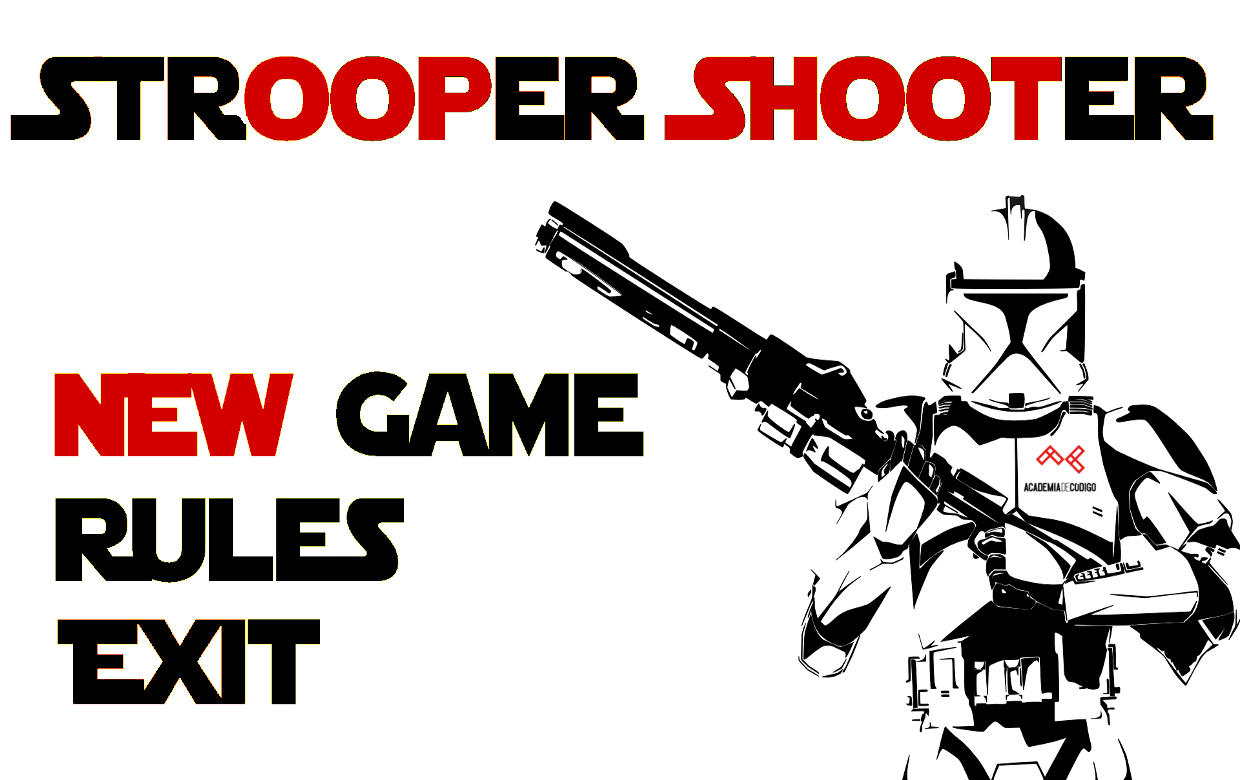
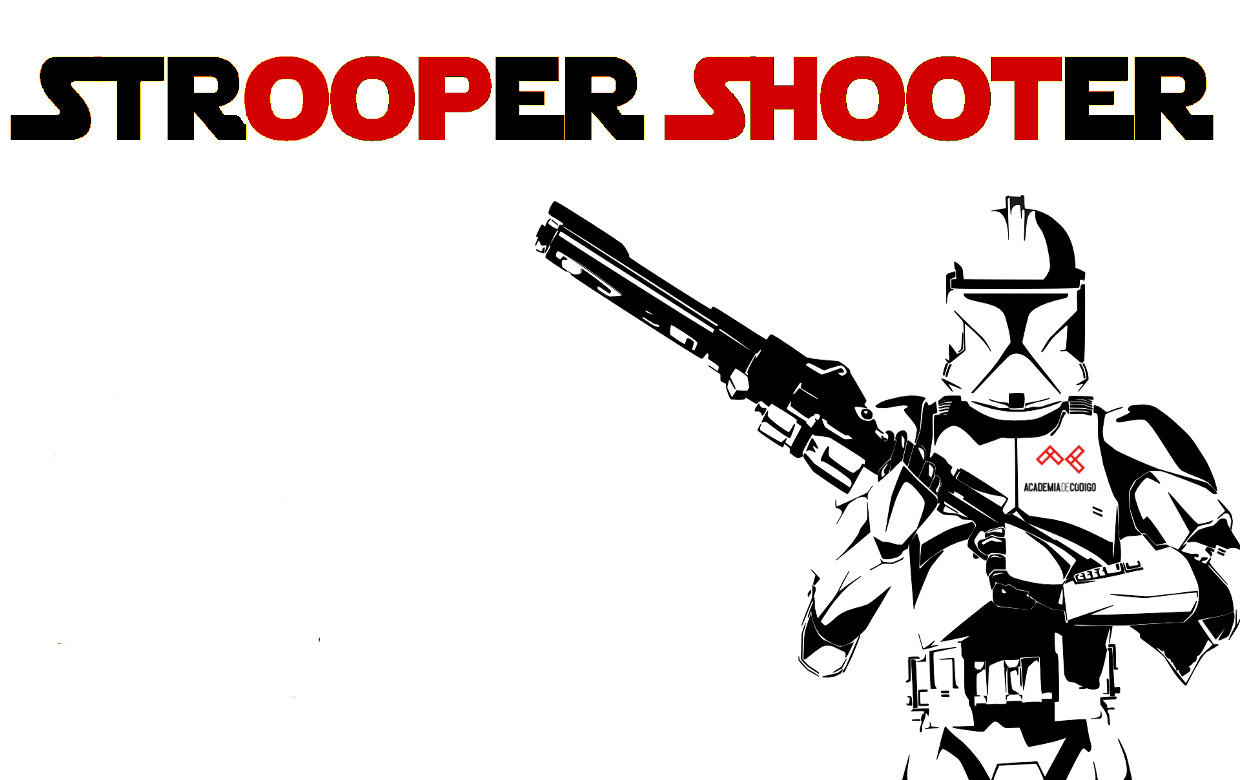
After one week, I have to say that this is probably the final version(or not)

Changed region(s): [[0.0306, 0.6154, 0.3371, 0.9231], [0.0306, 0.4615, 0.521, 0.5846]]

diff --git a/StrooperShooter/src/org/academiadecodigo/stormrooters/stroopershooter/Game.java b/StrooperShooter/src/org/academiadecodigo/stormrooters/stroopershooter/Game.java
@@ -28,6 +28,7 @@ public class Game {
     private Sound[] sound;
     private Picture gameOver;
     private Picture rules;
+    private Picture menu;
 
     public Game(int objectsNumber) {
         this.blasterRifle = new Weapon();
@@ -35,8 +36,9 @@ public class Game {
         this.player = new Player(blasterRifle);
         this.objects = new GameObjects[objectsNumber];
         this.gameRound = 1;
-        this.gameOver = new Picture(0,0,"gameover.png");
-        this.rules = new Picture(0,0,"rules.png");
+        this.gameOver = new Picture(8, 8, "gameover.png");
+        this.rules = new Picture(0, 0, "rules.png");
+        this.menu = new Picture(0, 0, "menuInitial.jpg");
 
         this.sound = new Sound[4];
         this.sound[0] = new Sound("/march.wav");
@@ -49,12 +51,15 @@ public class Game {
     }
 
     public void menu() throws InterruptedException {
+        menu.draw();
+        Thread.sleep(8000);
         rules.draw();
-        Thread.sleep(5000);
+        Thread.sleep(8000);
         init();
     }
 
     public void init() throws InterruptedException {
+        gameOver.delete();
         grid.init();
 
         for (int i = 0; i < objects.length; i++) {
@@ -108,10 +113,12 @@ public class Game {
         }
     }
 
-    public void gameRound() throws InterruptedException {
+    private void gameRound() throws InterruptedException {
         if (gameRound == 6 || player.getScore() < 0) {
             gameOn = false;
             gameOver.draw();
+            Thread.sleep(15000);
+            System.exit(0);
             System.out.println("Enemies: " + enemyCounter + "; friends: " + friendCounter + "; bonus: " + bonusCounter);
         }
         if (gameRound <= 5 && timer.getSeconds() == 0) {
@@ -165,13 +172,13 @@ public class Game {
         bulletsDisplay.grow(60, 20);
     }
 
-    private void drawText(){
+    private void drawText() {
         scoreDisplay.draw();
         clockDisplay.draw();
         bulletsDisplay.draw();
     }
 
-    private void updateScore(Integer newScore){
+    private void updateScore(Integer newScore) {
         scoreDisplay.setText(newScore.toString());
     }
 

diff --git a/StrooperShooter/src/org/academiadecodigo/stormrooters/stroopershooter/Player.java b/StrooperShooter/src/org/academiadecodigo/stormrooters/stroopershooter/Player.java
@@ -9,8 +9,6 @@ import org.academiadecodigo.simplegraphics.mouse.MouseEvent;
 import org.academiadecodigo.simplegraphics.mouse.MouseEventType;
 import org.academiadecodigo.simplegraphics.mouse.MouseHandler;
 import org.academiadecodigo.simplegraphics.pictures.Picture;
-import org.academiadecodigo.stormrooters.stroopershooter.Field.Grid;
-import org.academiadecodigo.stormrooters.stroopershooter.GameObjects.GameObjects;
 
 public class Player {
 
@@ -22,7 +20,6 @@ public class Player {
     private WeaponControl weaponControl;
     private ReloadControl reloadControl;
     private Sound[] sound;
-
 
     public Player(Weapon weapon) {
         this.sniper = weapon;
@@ -110,7 +107,6 @@ public class Player {
 
             if (x > 0 && x < 1239 && y > 0 && y < 770) {
                 aim.translate(e.getX() - x, e.getY() - y);
-                System.out.println(x + " " + y);
             } else {
                 x = -10;
                 y = -10;
